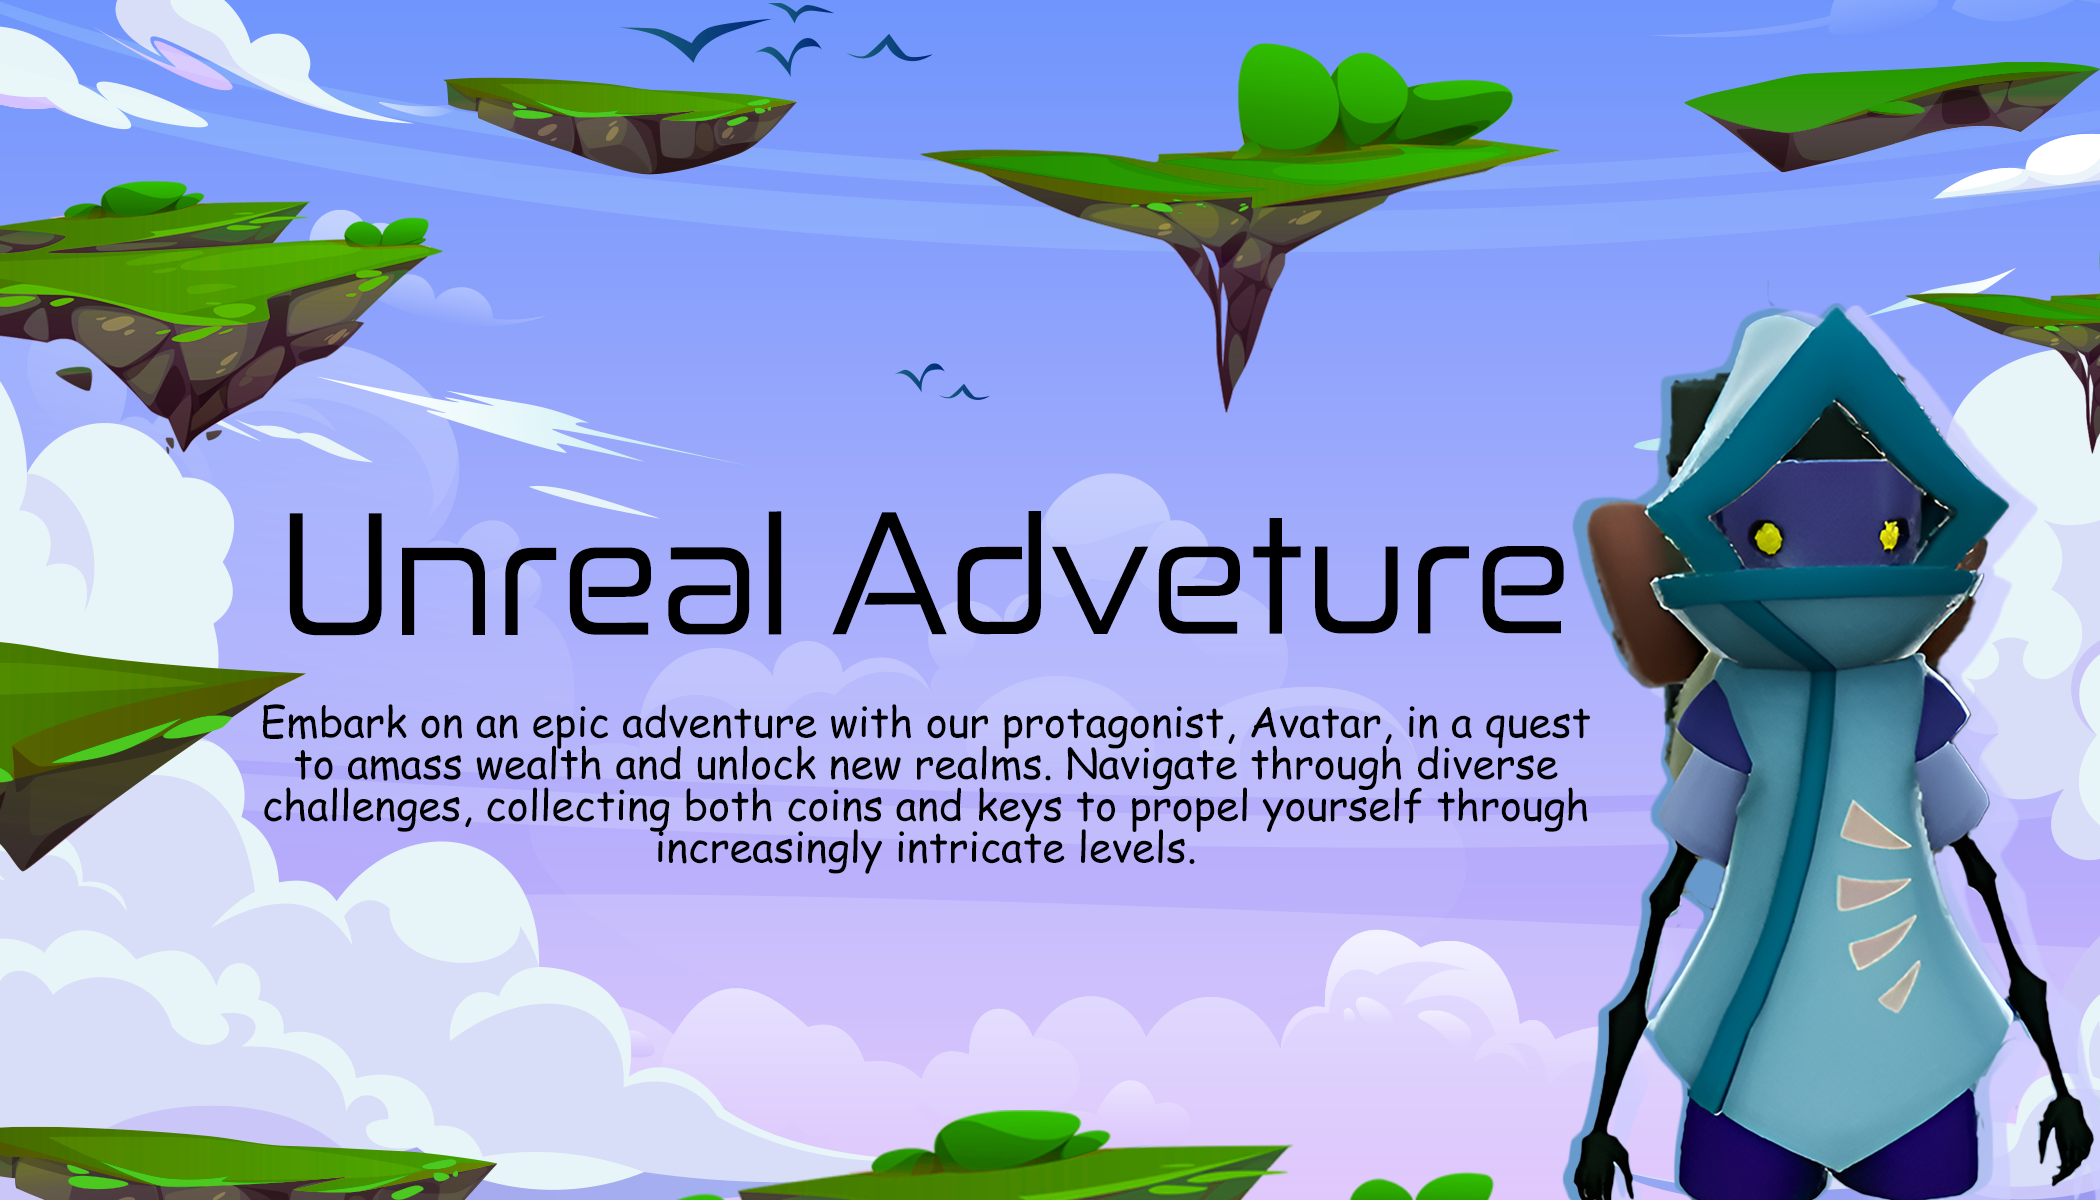
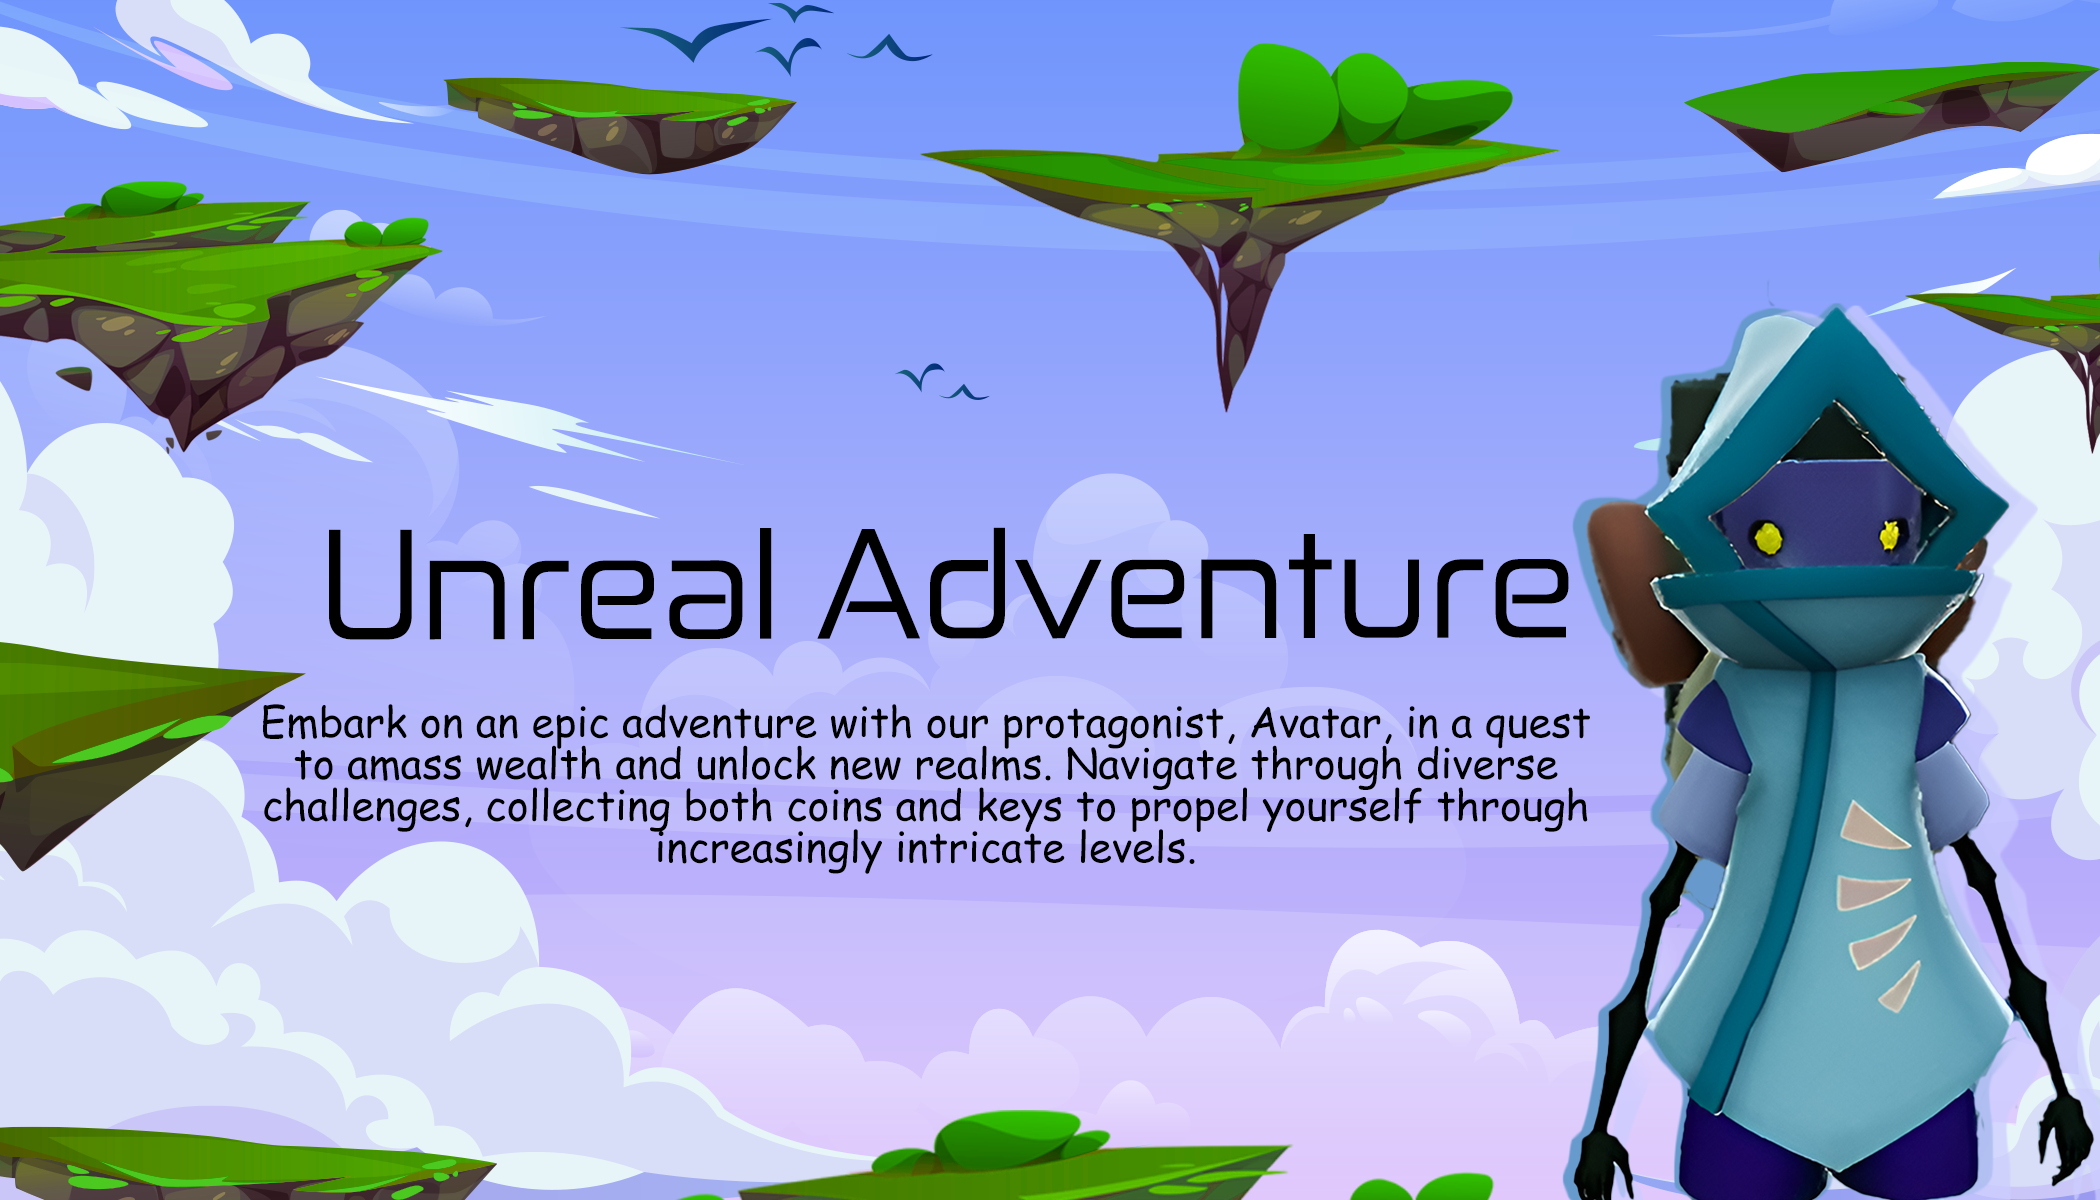
updated img

Changed region(s): [[0.1238, 0.4317, 0.7429, 0.555]]

diff --git a/index.css b/index.css
@@ -6,7 +6,7 @@
 }
 img{
     width: 100%;
-    height: 620px;
+    height: 100svh;
 }
 #video{
     position: relative;
